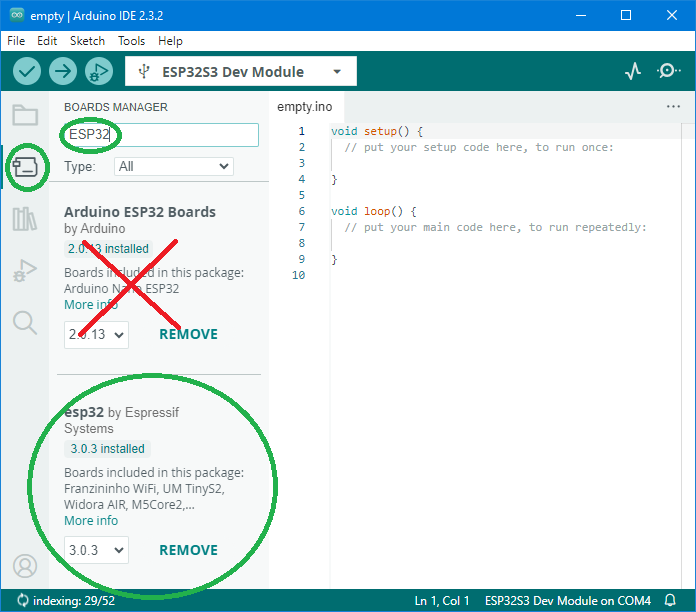
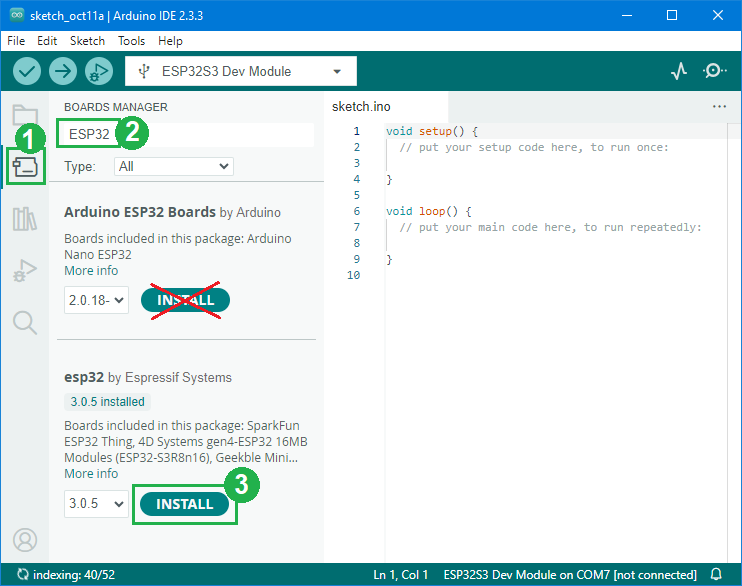
0.1.2
- Made library version accessible in code (`AOTOP_VERSION`).
- Improved _Installation_ of _Getting Started_ with new and more screenshots.
- Better comments in `eepromflasher.ino` and `saidbasic.ino`.
- Fixed links to training and OSP specification.

diff --git a/src/aotop.h b/src/aotop.h
@@ -1,3 +1,31 @@
 // aotop.h - empty library
+/*****************************************************************************
+ * Copyright 2024 by ams OSRAM AG                                            *
+ * All rights are reserved.                                                  *
+ *                                                                           *
+ * IMPORTANT - PLEASE READ CAREFULLY BEFORE COPYING, INSTALLING OR USING     *
+ * THE SOFTWARE.                                                             *
+ *                                                                           *
+ * THIS SOFTWARE IS PROVIDED BY THE COPYRIGHT HOLDERS AND CONTRIBUTORS       *
+ * "AS IS" AND ANY EXPRESS OR IMPLIED WARRANTIES, INCLUDING, BUT NOT         *
+ * LIMITED TO, THE IMPLIED WARRANTIES OF MERCHANTABILITY AND FITNESS         *
+ * FOR A PARTICULAR PURPOSE ARE DISCLAIMED. IN NO EVENT SHALL THE COPYRIGHT  *
+ * OWNER OR CONTRIBUTORS BE LIABLE FOR ANY DIRECT, INDIRECT, INCIDENTAL,     *
+ * SPECIAL, EXEMPLARY, OR CONSEQUENTIAL DAMAGES (INCLUDING, BUT NOT          *
+ * LIMITED TO, PROCUREMENT OF SUBSTITUTE GOODS OR SERVICES; LOSS OF USE,     *
+ * DATA, OR PROFITS; OR BUSINESS INTERRUPTION) HOWEVER CAUSED AND ON ANY     *
+ * THEORY OF LIABILITY, WHETHER IN CONTRACT, STRICT LIABILITY, OR TORT       *
+ * (INCLUDING NEGLIGENCE OR OTHERWISE) ARISING IN ANY WAY OUT OF THE USE     *
+ * OF THIS SOFTWARE, EVEN IF ADVISED OF THE POSSIBILITY OF SUCH DAMAGE.      *
+ *****************************************************************************/
+#ifndef _AOTOP_H_
+#define _AOTOP_H_
 
-#error aotop is an empty library; do not use the lib, just the examples
+
+// Identifies lib version
+#define AOTOP_VERSION "0.1.2"
+
+// This lib does not contain reusable code, only examples and documentation.
+
+#endif
+

diff --git a/src/aotop.cpp b/src/aotop.cpp
@@ -1,3 +1,24 @@
 // aotop.cpp - empty library
+/*****************************************************************************
+ * Copyright 2024 by ams OSRAM AG                                            *
+ * All rights are reserved.                                                  *
+ *                                                                           *
+ * IMPORTANT - PLEASE READ CAREFULLY BEFORE COPYING, INSTALLING OR USING     *
+ * THE SOFTWARE.                                                             *
+ *                                                                           *
+ * THIS SOFTWARE IS PROVIDED BY THE COPYRIGHT HOLDERS AND CONTRIBUTORS       *
+ * "AS IS" AND ANY EXPRESS OR IMPLIED WARRANTIES, INCLUDING, BUT NOT         *
+ * LIMITED TO, THE IMPLIED WARRANTIES OF MERCHANTABILITY AND FITNESS         *
+ * FOR A PARTICULAR PURPOSE ARE DISCLAIMED. IN NO EVENT SHALL THE COPYRIGHT  *
+ * OWNER OR CONTRIBUTORS BE LIABLE FOR ANY DIRECT, INDIRECT, INCIDENTAL,     *
+ * SPECIAL, EXEMPLARY, OR CONSEQUENTIAL DAMAGES (INCLUDING, BUT NOT          *
+ * LIMITED TO, PROCUREMENT OF SUBSTITUTE GOODS OR SERVICES; LOSS OF USE,     *
+ * DATA, OR PROFITS; OR BUSINESS INTERRUPTION) HOWEVER CAUSED AND ON ANY     *
+ * THEORY OF LIABILITY, WHETHER IN CONTRACT, STRICT LIABILITY, OR TORT       *
+ * (INCLUDING NEGLIGENCE OR OTHERWISE) ARISING IN ANY WAY OUT OF THE USE     *
+ * OF THIS SOFTWARE, EVEN IF ADVISED OF THE POSSIBILITY OF SUCH DAMAGE.      *
+ *****************************************************************************/
 
-#error aotop is an empty library; do not use, just the examples
+
+// Deliberately empty
+// This lib does not contain reusable code, only examples and documentation.

diff --git a/examples/saidbasic/saidbasic.h b/examples/saidbasic/saidbasic.h
@@ -23,7 +23,8 @@
 
 
 // Application version (and its history)
-#define SAIDBASIC_VERSION "2.4"
+#define SAIDBASIC_VERSION "2.5"
+// 20241010  2.5  Added aotop version
 // 20240805  2.4  Added minimal documentation to top of ino
 // 20240702  2.3  Reorder libs in aocmd_version_extra()
 // 20240611  2.2  Added aocmd_version_extra()

diff --git a/gettingstarted.md b/gettingstarted.md
@@ -4,7 +4,7 @@ This document gives instructions to get started with the **aolibs**;
 short for Arduino OSP libraries from ams-OSRAM. 
 This suite implements support for chips that use the
 [Open System Protocol](https://ams-osram.com/technology/open-system-protocol), 
-like the AS1163 ("SAID") or the OSIRE E3731i ("RGBi").
+like the AS1163 ("SAID") or the OSIRE E3731i ("RGBI").
 
 
 ## Introduction
@@ -91,7 +91,7 @@ on the OSP32 board with the _aolibs_.
    (`aoresult`, `aospi`, `aoosp`, `aocmd`, `aomw`, `aoui32`, `aoapps`, and `aotop`)
    but `aotop` has all others as dependencies, so installing that one, installs all.
    
-   Use the LIBRARY MANAGER to search for "OSP_ao" and install 
+   Use the LIBRARY MANAGER to search for "aotop" and install 
    **OSP ToplevelSketches aotop** (latest version).
    
    ![Arduino library manager](extras/librarymanager.png)
@@ -99,26 +99,38 @@ on the OSP32 board with the _aolibs_.
    As an (not recommended) alternative, get all the _aolibs_ manually, 
    e.g. download them from [GitHub](https://github.com/ams-OSRAM/OSP_aotop),
    and copy them into the Arduino `libraries` directory
-   (for example, to `C:\Users\John\Documents\Arduino\libraries`).
+   (e.g. to `C:\Users\John\Documents\Arduino\libraries\OSP_aotop`).
  
 5. Finally, we flash some firmware into the ESP32 that will send OSP
    telegrams to blink an LED.
    
    Connect the OSP32 board to the PC: plug a USB cable
-   to the USB plug labeled "CMD" on the OSP32 PCB. 
+   to the USB plug labeled **CMD** on the OSP32 PCB. 
    With one of the ERNI cables supplied with the evaluation kit, 
    connect the connector labeled OUT with the connector labeled IN,
    both on the OSP32 board right-hand side edge.
    
+   ![Board cabling](extras/aoosp_min.jpg)
+
    Start Arduino IDE. Select an example sketch, e.g. try `aoosp_min.ino`. 
    It is a minimalist example sketch that blinks the first LED connected to 
    the first SAID ("OUT") on the OSP32 board (using both BiDir and Loop mode).
-   
    You can find the example in the Arduino IDE via "File > Examples > OSP Telegrams aoosp > aoosp_min".
-   Compile using "ESP32S3 Dev Module" and Upload, then check the Serial Monitor at 115200.
    
    ![Selecting example aoosp_min](extras/aoosp_min.png)
+
+   Select the correct board (compiler) "ESP32S3 Dev Module" and correct 
+   Serial port (here COM7), then (compile and) Upload, either via the button 
+   bar (the "play" triangle) or via Sketch > Upload.
+   
+   ![Compile settings](extras/compilesetting.png)
+
+   Watch the serial output by opening the serial monitor, either via the
+   button bar (magnifying glass), or via Tools > Serial Monitor. 
+   Ensure the Serial Monitor baud rate is 115200.
  
+   ![Compile settings](extras/serial-monitor.png)
+   
    What you should see  is that the first RGB (L1.0) of SAID OUT (on the 
    OSP32 board) blinks bright white and dim white. First in BiDir mode 
    (so direction mux led is green) then in loop (led is orange).
@@ -136,7 +148,7 @@ scripted animation (script in EEPROM), country flags selected by
 pressing a button, and showing the effect of dithering. 
 
 Use the A button to select app after app.
-There is a small [user manual](extras/manuals/saidbasic.pptx/).
+There is a small [user manual](extras/manuals/saidbasic.pptx).
 
 
 ## Next examples
@@ -269,8 +281,8 @@ There are several sources of documentation:
   (osplink, saidbasic).
 
 - **Training slides**  
-  There are [slides](extras/training/OSP-SAID-Training.pptx) for a training 
-  on _aolibs_ with the _Arduino OSP evelaution kit_.
+  There are [slides](extras/manuals/ArduinoOSP-Training.pptx) for a training 
+  on _aolibs_ with the _Arduino OSP evaluation kit_.
 
 - **API documentation**  
   In every _cpp_ file (not in the header file), 
@@ -346,6 +358,10 @@ Depending on your needs pick a subset from the following set.
   (on top of `aospi`). The API has a function per telegram, with as 
   argument the address and the telegram parameters. The library does the 
   packing of byte buffers (and unpacking from byte buffers for responses).
+  
+  The library also contains some "macros": functions that send multiple 
+  telegrams implementing a higher level function like an I2C read 
+  transaction to an i2C device connected to a SAID.
   
   Any application for OSP is expected to use the libraries `aoosp` 
   on top of `aospi` on top of `aoresult`.

diff --git a/readme.md b/readme.md
@@ -28,8 +28,8 @@ software, which is partitioned over several libraries (the _aolibs_),
 each with its own GitHub repository. This document is part of one of those
 libraries (_aotop_). However, _aotop_ is not really a library, but rather a 
 container of top level demo applications (which use the real libraries),
-and a container of top-level documentation (like this readme). The diagram
-below shows an overview of all _aolibs_.
+and a container of top-level documentation (like this readme and training 
+material). The diagram below shows an overview of all _aolibs_.
 
 ![aolibs in context](extras/aolibs.drawio.png)
 
@@ -52,6 +52,8 @@ This section links to various resources.
 
 - Open System Protocol [website](https://ams-osram.com/technology/open-system-protocol).
 
+- Open System Protocol [application note](https://look.ams-osram.com/m/36bafc7159df087a/original/OSIRE-E3731i-Open-System-Protocol-1-0.pdf) (OSP specification). (todo:replace with v1.1)
+
 - OSP products
 
   - RGBi [E3731i](https://ams-osram.com/products/leds/multi-color-leds/osram-osire-e3731i-krtbi-d2lm31-31) product page (OSP node with built-in RGB LEDs).
@@ -60,6 +62,7 @@ This section links to various resources.
 
 - [Getting started manual](gettingstarted.md) for the 
   _aolibs_ with the _Arduino OSP evaluation kit_.
+  There are also [training slides](extras/manuals/ArduinoOSP-Training.pptx).
 
 - [Arduino OSP evaluation kit](todo) (todo:add URL). The kit contains:
 
@@ -113,7 +116,8 @@ It contains no (library) code; but it serves several other functions
   so installing _aotop_ via the Arduino IDE will install all other 
   libraries as well.
 - It is the "landing" place for the Open System Protocol software,
-  providing global documentation with links to all related resources.
+  providing global documentation (Getting Started, Training) with 
+  links to all related resources.
 
 ![aotop in context](extras/aolibs-aotop.drawio.png)
 
@@ -145,13 +149,24 @@ File > Examples > OSP ToplevelSketches aotop > ...
   OSPlink application. Please find it in 
   [`aocmd/python`](https://github.com/ams-OSRAM/OSP_aocmd/tree/main/python).
 
+- **training** ([source](examples/training1), [source](examples/training2), [source](examples/training3))  
+  These are exercises for the [training](extras/manuals/ArduinoOSP-Training.pptx).
+
 
 ## API
 
 This library does not contain (reusable library) code, so there is no API.
+The only exception is the macro `AOTOP_VERSION`, which identifies the 
+version of this "library".
 
 
 ## Version history _aotop_
+
+- **2024 October 11, 0.1.2**  
+  - Made library version accessible in code (`AOTOP_VERSION`) and added to `saidbasic`.
+  - Improved _Installation_ of _Getting Started_ with new and more screenshots.
+  - Better comments in `eepromflasher.ino` and `saidbasic.ino`.
+  - Fixed links to training and OSP specification.
 
 - **2024 October 8, 0.1.1**  
   - Updated intro section of getting started (added pictures).
